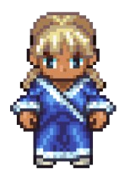
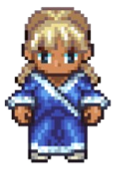
More edits to new game 2 screen positions of stuff

diff --git a/main.py b/main.py
@@ -29,8 +29,8 @@ pygame.display.set_caption('THE Farm Game')
 
 # images 
 MENU_BG = pygame.transform.scale(pygame.image.load('Resources/Images/menu-background.png'), (WIDTH, HEIGHT))
-FEMALE_MC = pygame.transform.scale(pygame.image.load('Resources/Images/girlMC.png'), (115, 156))
-MALE_MC = pygame.transform.scale(pygame.image.load('Resources/Images\maleMC.png'), (115, 156))
+FEMALE_MC = pygame.transform.scale(pygame.image.load('Resources/Images/girlMC.png'), (96, 144))
+MALE_MC = pygame.transform.scale(pygame.image.load('Resources/Images\maleMC.png'), (96, 144))
 ERROR = pygame.transform.scale(pygame.image.load('Resources/Images/error-icon.png'), (55, 48))
 
 # music
@@ -226,7 +226,6 @@ class ImageButton():
 
 def checkNewPassword(password1, password2, matchError, characterError):
     required = r"^(?=.*\d)(?=.*[a-z])(?=.*[A-Z]).*$"
-    print("checking")
 
     if password1 == password2 and len(password1) >= 8 and bool(re.fullmatch(required, password1)):
         matchError.deactivate()
@@ -368,23 +367,23 @@ def newgame2_loop():
     titleBox = TextBox(WIDTH // 2 - (TITLE_WIDTH // 2), 100, TITLE_WIDTH, TITLE_HEIGHT, OCR_TITLE, "New Game")
 
     backButton = Button(30, 30, 90, 70, OCR_TITLE, "<-"  )
-    startButton = Button(WIDTH // 2 - (240 // 2), 520, 240, 80, OCR_TEXT, "Start")
-    speedButton = Button(720, 630, 170, 60, OCR_TEXT, "Slow")
+    startButton = Button(WIDTH // 2 - (240 // 2), 580, 240, 80, OCR_TEXT, "Start")
+    speedButton = Button(690, 590, 170, 60, OCR_TEXT, "Slow")
 
-    nameLabel = TextBox(210, 220, 300, 75, OCR_TEXT, "Name:")
-    passwordLabel = TextBox(210, 310, 300, 75, OCR_TEXT, "Password:")
-    save3Label = TextBox(210, 400, 300, 75, OCR_TEXT, "Password:")
+    nameLabel = TextBox(205, 230, 300, 80, OCR_TEXT, "Name:")
+    passwordLabel = TextBox(205, 330, 300, 80, OCR_TEXT, "Password:")
+    save3Label = TextBox(205, 430, 300, 80, OCR_TEXT, "Password:")
 
-    nameInputBox = InputBox(560, 220, 300, 75, OCR_TEXT, name)
-    password1InputBox = InputBox(560, 310, 300, 75, OCR_TEXT, password1Display)
-    password2InputBox = InputBox(560, 400, 300, 75, OCR_TEXT, password2Display)
+    nameInputBox = InputBox(565, 230, 300, 80, OCR_TEXT, name)
+    password1InputBox = InputBox(565, 330, 300, 80, OCR_TEXT, password1Display)
+    password2InputBox = InputBox(565, 430, 300, 80, OCR_TEXT, password2Display)
 
-    femaleCharacter = ImageButton(FEMALE_MC, 170, 580, 115, 156)
-    maleCharacter = ImageButton(MALE_MC, 290, 580, 115, 156)
+    femaleCharacter = ImageButton(FEMALE_MC, 240, 610, 96, 144)
+    maleCharacter = ImageButton(MALE_MC, 340, 610, 96, 144)
 
-    usernameError = Error(ERROR, 890, 255, "Username already exists", 275, 34, 750, 195)
-    matchError = Error(ERROR, 890, 345, "Passwords do not match", 265, 34, 750, 285)
-    characterError = Error(ERROR, 890, 435, "Password must be over 8 characters and must include lowercase, uppercase and a number", 970, 34, 100, 375)
+    usernameError = Error(ERROR, 890, 265, "Username already exists", 275, 34, 750, 205)
+    matchError = Error(ERROR, 890, 365, "Passwords do not match", 265, 34, 750, 305)
+    characterError = Error(ERROR, 890, 470, "Password must be over 8 characters and must include lowercase, uppercase and a number", 970, 34, 100, 405)
 
     while running:
 
@@ -416,6 +415,7 @@ def newgame2_loop():
             if error.checkActive() == True:
                 error.checkHover(mouse)
                 error.draw()
+        
 
         # handles user interaction
         for event in pygame.event.get():
@@ -460,7 +460,6 @@ def newgame2_loop():
 
                 if startButton.onClick(mouse):
                     correctPassword = checkNewPassword(password1, password2, matchError, characterError)
-                    print(correctPassword)
                     if correctPassword:
                         print("passwords are good to go")
                     if correctPassword and chosenCharacter != "" and validName:
